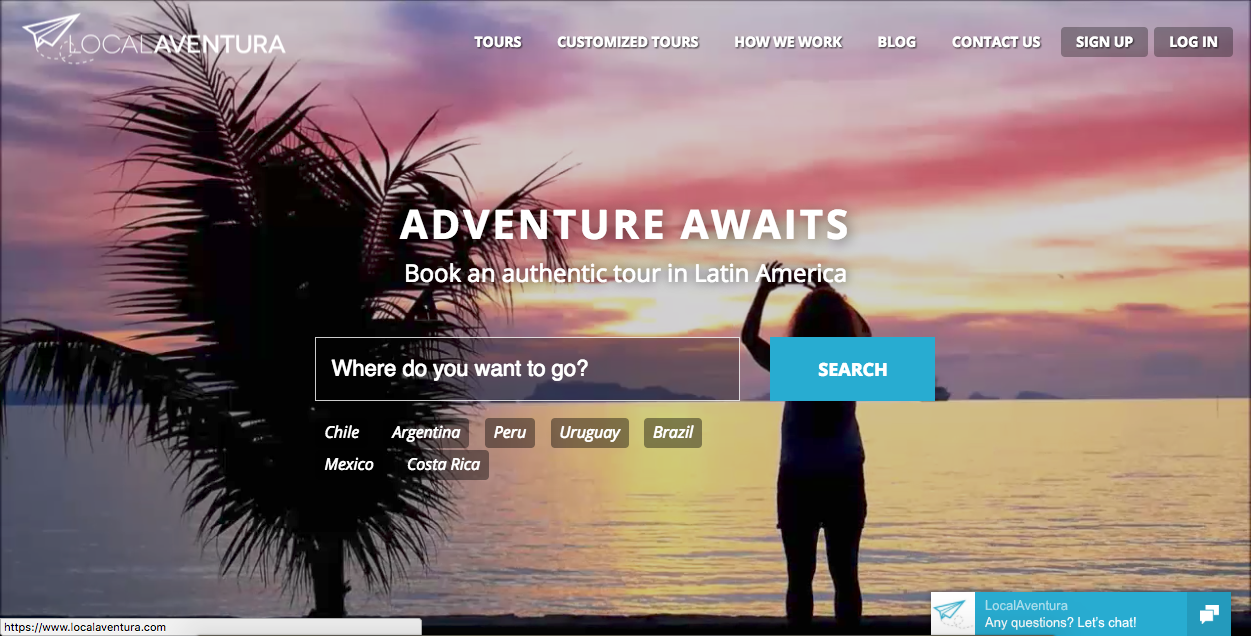
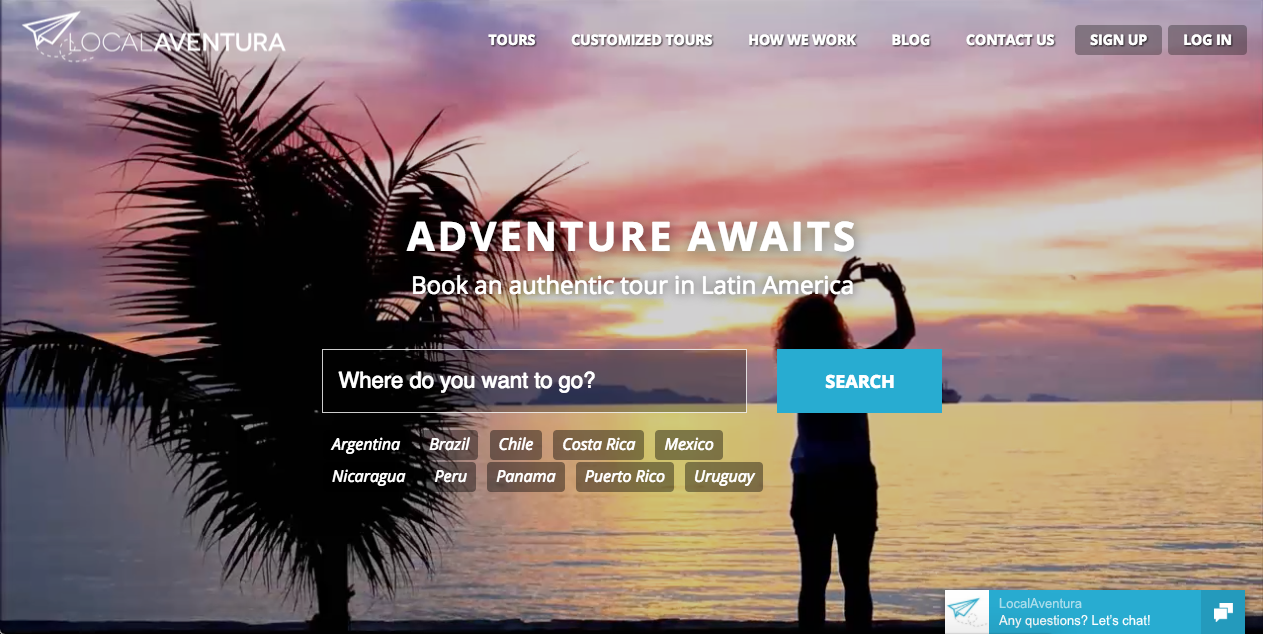
More design 2.0 styling. Added the front thumbnails instead of the text greeting.

diff --git a/public/css/main.css b/public/css/main.css
@@ -32,6 +32,7 @@ h2 {
 }
 
 .summary-box{
+    background: rgba(111,130,147,.7);
     padding-bottom: 45px;
     padding-top: 20px;
 }
@@ -298,12 +299,29 @@ a:hover {
 }
 
 .transbox {
-  background-color: rgba(0, 0, 0, 0.90);
+  background-color: rgba(0, 0, 0, 0.70);
 }
 
 .error {
     border:1px solid red;
 }
+
+.home-item img {
+        width: 100%;
+}
+
+@media (min-width: 992px){
+
+    .home-item img {
+        width: 100%;
+        max-width: 500px;
+        height: 250px;
+
+    }
+    
+}
+
+
 
 .left {
     text-align: left;
